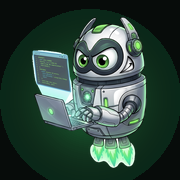
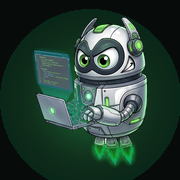
Robots recortados limpios (llamas y pantalla sin blanco)

Changed region(s): [[0.1667, 0.0833, 0.8333, 0.9444], [0.5278, 0.2222, 0.5556, 0.25]]

diff --git a/index.html b/index.html
@@ -95,7 +95,7 @@
     <div class="orbit o1"></div><div class="orbit o2"></div><div class="orbit o3"></div>
     <div class="halo"></div>
     <div class="avatar-wrap tilt">
-      <img src="avatar.webp" alt="Mascota de FuturMovil programando" class="avatar">
+      <img src="avatar.webp?v=3" alt="Mascota de FuturMovil programando" class="avatar">
       <div class="jet"></div>
     </div>
     <div class="chip c1"><i>📶</i> Fibra</div>
@@ -250,7 +250,7 @@
 <section id="contacto" class="section contact">
   <div class="contact-box reveal">
     <div class="contact-copy">
-      <img src="avatar-win.webp" alt="" class="win-bot" loading="lazy">
+      <img src="avatar-win.webp?v=3" alt="" class="win-bot" loading="lazy">
       <span class="kicker">05 · Contacto</span>
       <h2>¿Hablamos?</h2>
       <p class="lead">Escríbenos y te respondemos personalmente. Sin compromiso.</p>
@@ -314,7 +314,7 @@
 <div id="success" class="modal" hidden>
   <div class="modal-card success-card">
     <button class="modal-x" aria-label="Cerrar">×</button>
-    <img src="avatar-win.webp" alt="" class="success-bot">
+    <img src="avatar-win.webp?v=3" alt="" class="success-bot">
     <h3>¡Recibido!</h3>
     <p>Gracias por escribirnos. Te contactamos muy pronto.</p>
     <a class="btn btn-wa" data-wa="Hola Manu, acabo de enviarte el formulario de la web." href="#" target="_blank" rel="noopener"><span>Hablar ya por WhatsApp</span></a>

diff --git a/sw.js b/sw.js
@@ -1,4 +1,4 @@
-const CACHE = 'futurmovil-v2';
+const CACHE = 'futurmovil-v3';
 const ASSETS = ['./', 'index.html', 'styles.css', 'app.js', 'manifest.json',
   'futurmovil.webp', 'puntofibra.webp', 'avatar.webp', 'avatar-win.webp',
   'icon-192.png', 'icon-512.png', 'apple-touch-icon.png', 'favicon.png'];
